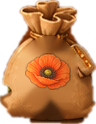
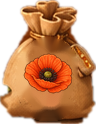
Nursery: bag flowers pasted plain (no shading/tint), old flowers cleaned off
Claude-Session: https://claude.ai/code/session_01KbwSo6yL3mitC5MkkWGPtA

diff --git a/src/engine/assets.js b/src/engine/assets.js
@@ -353,7 +353,7 @@ Object.assign(TRADE_IMAGES, {
 });
 
 // ─── Nursery background ───────────────────────────────────────────────────────
-export const NURSERY_BG = require('../../assets/shop/nursery_v10.png');
+export const NURSERY_BG = require('../../assets/shop/nursery_v11.png');
 
 // ─── Inventory grid background (7 cols × 5 rows, 1226×912) ────────────────────
 export const INVENTORY_BG = require('../../assets/ui_comps/inventory.png');
